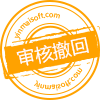
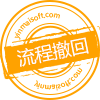
工作流代码优化

Changed region(s): [[0.15, 0.36, 0.9, 0.69]]

diff --git a/src/views/basic/dynamicModel/list/index.vue b/src/views/basic/dynamicModel/list/index.vue
@@ -47,7 +47,7 @@
               <el-tag v-if="scope.row.flowState==1">等待审核</el-tag>
               <el-tag type="success" v-else-if="scope.row.flowState==2">审核通过</el-tag>
               <el-tag type="danger" v-else-if="scope.row.flowState==3">审核驳回</el-tag>
-              <el-tag type="danger" v-else-if="scope.row.flowState==4">审核撤回</el-tag>
+              <el-tag type="danger" v-else-if="scope.row.flowState==4">流程撤回</el-tag>
               <el-tag type="warning" v-else-if="scope.row.flowState==5">审核终止</el-tag>
               <el-tag type="info" v-else>等待提交</el-tag>
             </template>
@@ -65,7 +65,7 @@
                   </template>
                   <template v-if="item.value=='remove'">
                     <el-button size="mini" type="text" :key="i" class="JNPF-table-delBtn"
-                      :disabled="config.webType == 3 && scope.row.flowState>0"
+                      :disabled="config.webType == 3 && [1,2,3,5].indexOf(scope.row.flowState)>-1"
                       @click="columnBtnsHandel(item.value,scope.row)">
                       {{item.label}}</el-button>
                   </template>
@@ -87,7 +87,7 @@
                   </template>
                   <template v-if="item.value=='remove'">
                     <el-button size="mini" type="text" :key="i" class="JNPF-table-delBtn"
-                      :disabled="config.webType == 3 && scope.row.flowState>0"
+                      :disabled="config.webType == 3 && [1,2,3,5].indexOf(scope.row.flowState)>-1"
                       @click="columnBtnsHandel(item.value,scope.row)" v-has="'btn_'+item.value">
                       {{item.label}}</el-button>
                   </template>

diff --git a/src/views/extend/order/index.vue b/src/views/extend/order/index.vue
@@ -87,7 +87,7 @@
               <el-tag v-if="scope.row.currentState==1">等待审核</el-tag>
               <el-tag type="success" v-else-if="scope.row.currentState==2">审核通过</el-tag>
               <el-tag type="danger" v-else-if="scope.row.currentState==3">审核驳回</el-tag>
-              <el-tag type="danger" v-else-if="scope.row.currentState==4">审核撤回</el-tag>
+              <el-tag type="danger" v-else-if="scope.row.currentState==4">流程撤回</el-tag>
               <el-tag type="warning" v-else-if="scope.row.currentState==5">审核终止</el-tag>
               <el-tag type="info" v-else>等待提交</el-tag>
             </template>
@@ -98,8 +98,9 @@
                 :disabled="[1,2,5].indexOf(scope.row.currentState)>-1" v-has="'btn_edit'">编辑
               </el-button>
               <el-button size="mini" type="text" class="JNPF-table-delBtn"
-                @click="handleDel(scope.$index,scope.row.id)" :disabled="scope.row.currentState>0"
-                v-has="'btn_remove'">删除</el-button>
+                @click="handleDel(scope.$index,scope.row.id)"
+                :disabled="[1,2,3,5].indexOf(scope.row.currentState)>-1" v-has="'btn_remove'">删除
+              </el-button>
               <el-button size="mini" type="text" :disabled="!scope.row.currentState"
                 @click="toApprovalDetail(scope.row.id,scope.row.currentState)"
                 v-has="'btn_flowDetail'">详情</el-button>

diff --git a/src/views/workFlow/flowLaunch/index.vue b/src/views/workFlow/flowLaunch/index.vue
@@ -80,7 +80,7 @@
               <el-tag type="primary" v-if="scope.row.status==1">等待审核</el-tag>
               <el-tag type="success" v-else-if="scope.row.status==2">审核通过</el-tag>
               <el-tag type="danger" v-else-if="scope.row.status==3">审核驳回</el-tag>
-              <el-tag type="warning" v-else-if="scope.row.status==4">审核撤回</el-tag>
+              <el-tag type="warning" v-else-if="scope.row.status==4">流程撤回</el-tag>
               <el-tag v-else-if="scope.row.status==5" type="info">审核终止</el-tag>
               <el-tag v-else type="info">等待提交</el-tag>
             </template>
@@ -99,7 +99,7 @@
               </el-button>
               <el-button size="mini" type="text" class="JNPF-table-delBtn"
                 @click="handleDel(scope.$index,scope.row.id)"
-                :disabled="[1,2,5].indexOf(scope.row.status)>-1">删除</el-button>
+                :disabled="[1,2,3,5].indexOf(scope.row.status)>-1">删除</el-button>
               <el-button size="mini" type="text" @click="toDetail(scope.row,0)"
                 :disabled="scope.row.status==0">详情
               </el-button>

diff --git a/src/views/workFlow/flowMonitor/index.vue b/src/views/workFlow/flowMonitor/index.vue
@@ -88,7 +88,7 @@
               <el-tag type="primary" v-if="scope.row.status==1">等待审核</el-tag>
               <el-tag type="success" v-else-if="scope.row.status==2">审核通过</el-tag>
               <el-tag type="danger" v-else-if="scope.row.status==3">审核驳回</el-tag>
-              <el-tag type="warning" v-else-if="scope.row.status==4">审核撤回</el-tag>
+              <el-tag type="warning" v-else-if="scope.row.status==4">流程撤回</el-tag>
               <el-tag v-else-if="scope.row.status==5" type="info">审核终止</el-tag>
               <el-tag v-else type="info">等待提交</el-tag>
             </template>

diff --git a/src/views/workFlow/flowCirculate/index.vue b/src/views/workFlow/flowCirculate/index.vue
@@ -84,7 +84,7 @@
             <template slot-scope="scope">
               <el-tag type="success" v-if="scope.row.status==2">审核通过</el-tag>
               <el-tag type="danger" v-else-if="scope.row.status==3">审核驳回</el-tag>
-              <el-tag type="warning" v-else-if="scope.row.status==4">审核撤回</el-tag>
+              <el-tag type="warning" v-else-if="scope.row.status==4">流程撤回</el-tag>
               <el-tag type="info" v-else-if="scope.row.status==5">审核终止</el-tag>
               <el-tag type="primary" v-else>等待审核</el-tag>
             </template>

diff --git a/src/views/workFlow/flowTodo/index.vue b/src/views/workFlow/flowTodo/index.vue
@@ -84,7 +84,7 @@
             <template slot-scope="scope">
               <el-tag type="success" v-if="scope.row.status==2">审核通过</el-tag>
               <el-tag type="danger" v-else-if="scope.row.status==3">审核驳回</el-tag>
-              <el-tag type="warning" v-else-if="scope.row.status==4">审核撤回</el-tag>
+              <el-tag type="warning" v-else-if="scope.row.status==4">流程撤回</el-tag>
               <el-tag type="info" v-else-if="scope.row.status==5">审核终止</el-tag>
               <el-tag type="primary" v-else>等待审核</el-tag>
             </template>

diff --git a/src/views/workFlow/components/FlowBox.vue b/src/views/workFlow/components/FlowBox.vue
@@ -201,7 +201,7 @@ export default {
             this.$refs.form && this.$refs.form.init(data)
           })
         }, 500)
-      })
+      }).catch(() => { this.loading = false })
     },
     getBeforeInfo(data) {
       FlowBeforeInfo(data.id, { taskNodeId: data.taskNodeId }).then(res => {
@@ -257,7 +257,7 @@ export default {
             this.$refs.form && this.$refs.form.init(data)
           })
         }, 500)
-      })
+      }).catch(() => { this.loading = false })
     },
     eventLancher(eventType) {
       this.$refs.form && this.$refs.form.dataFormSubmit(eventType)
